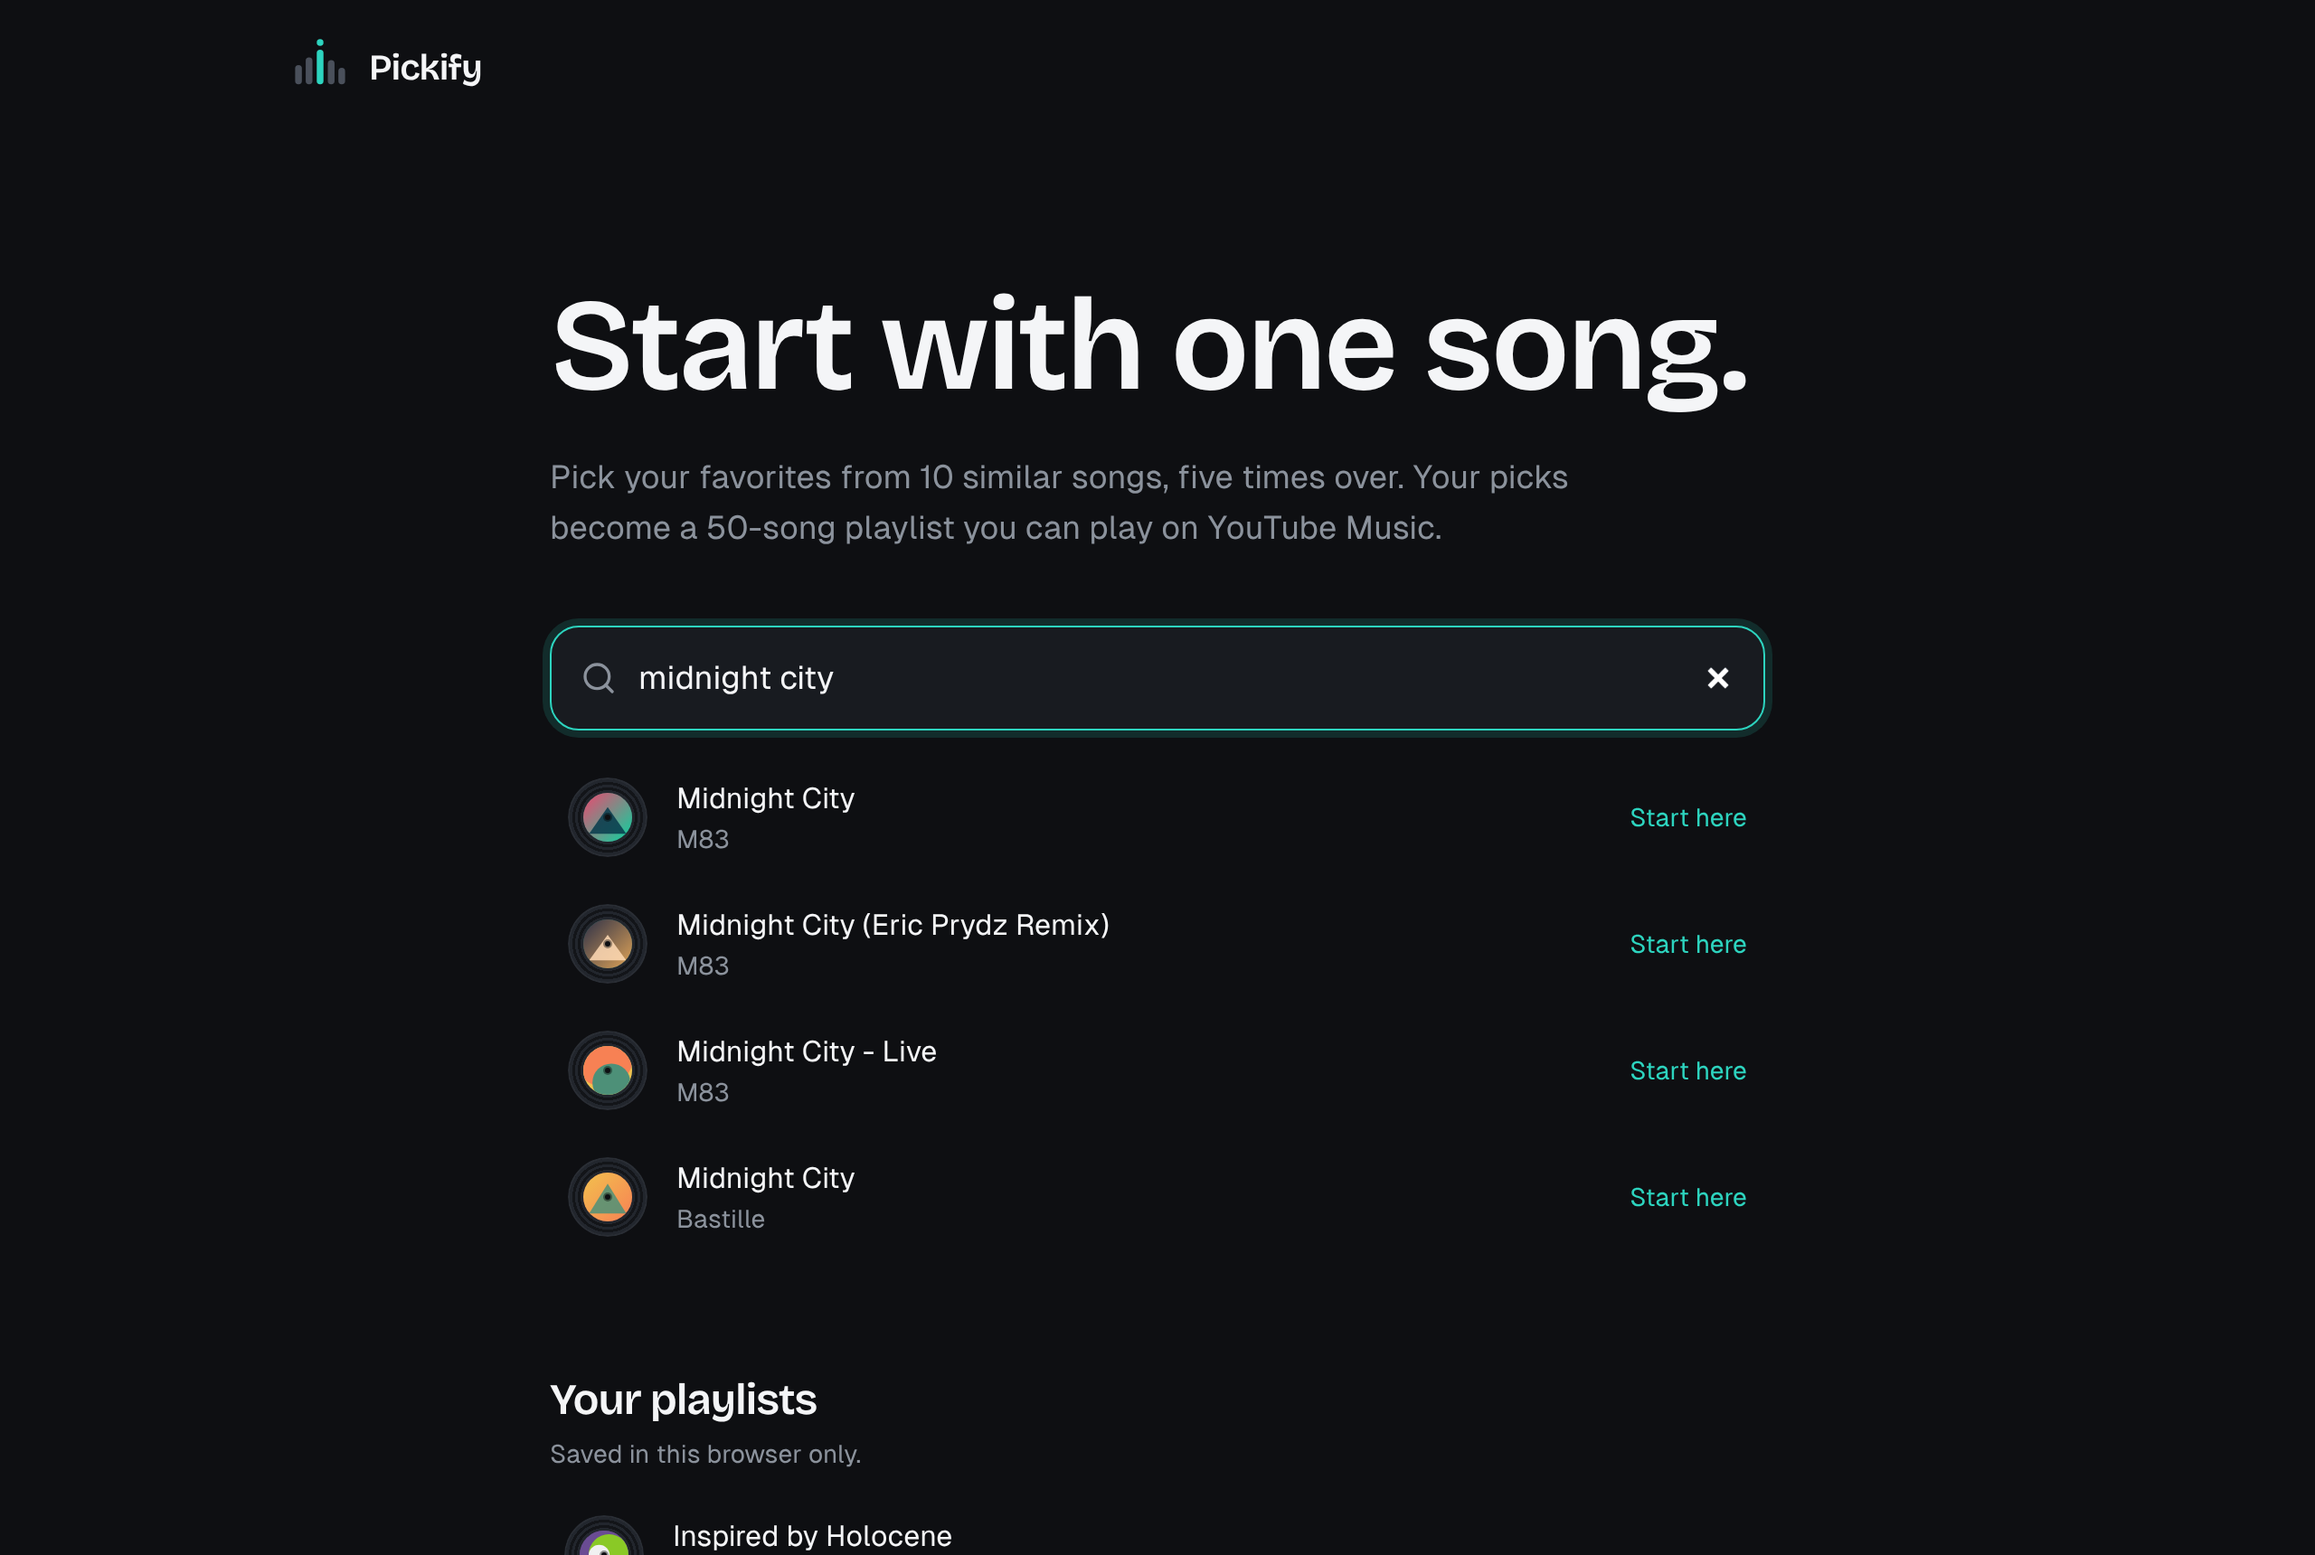
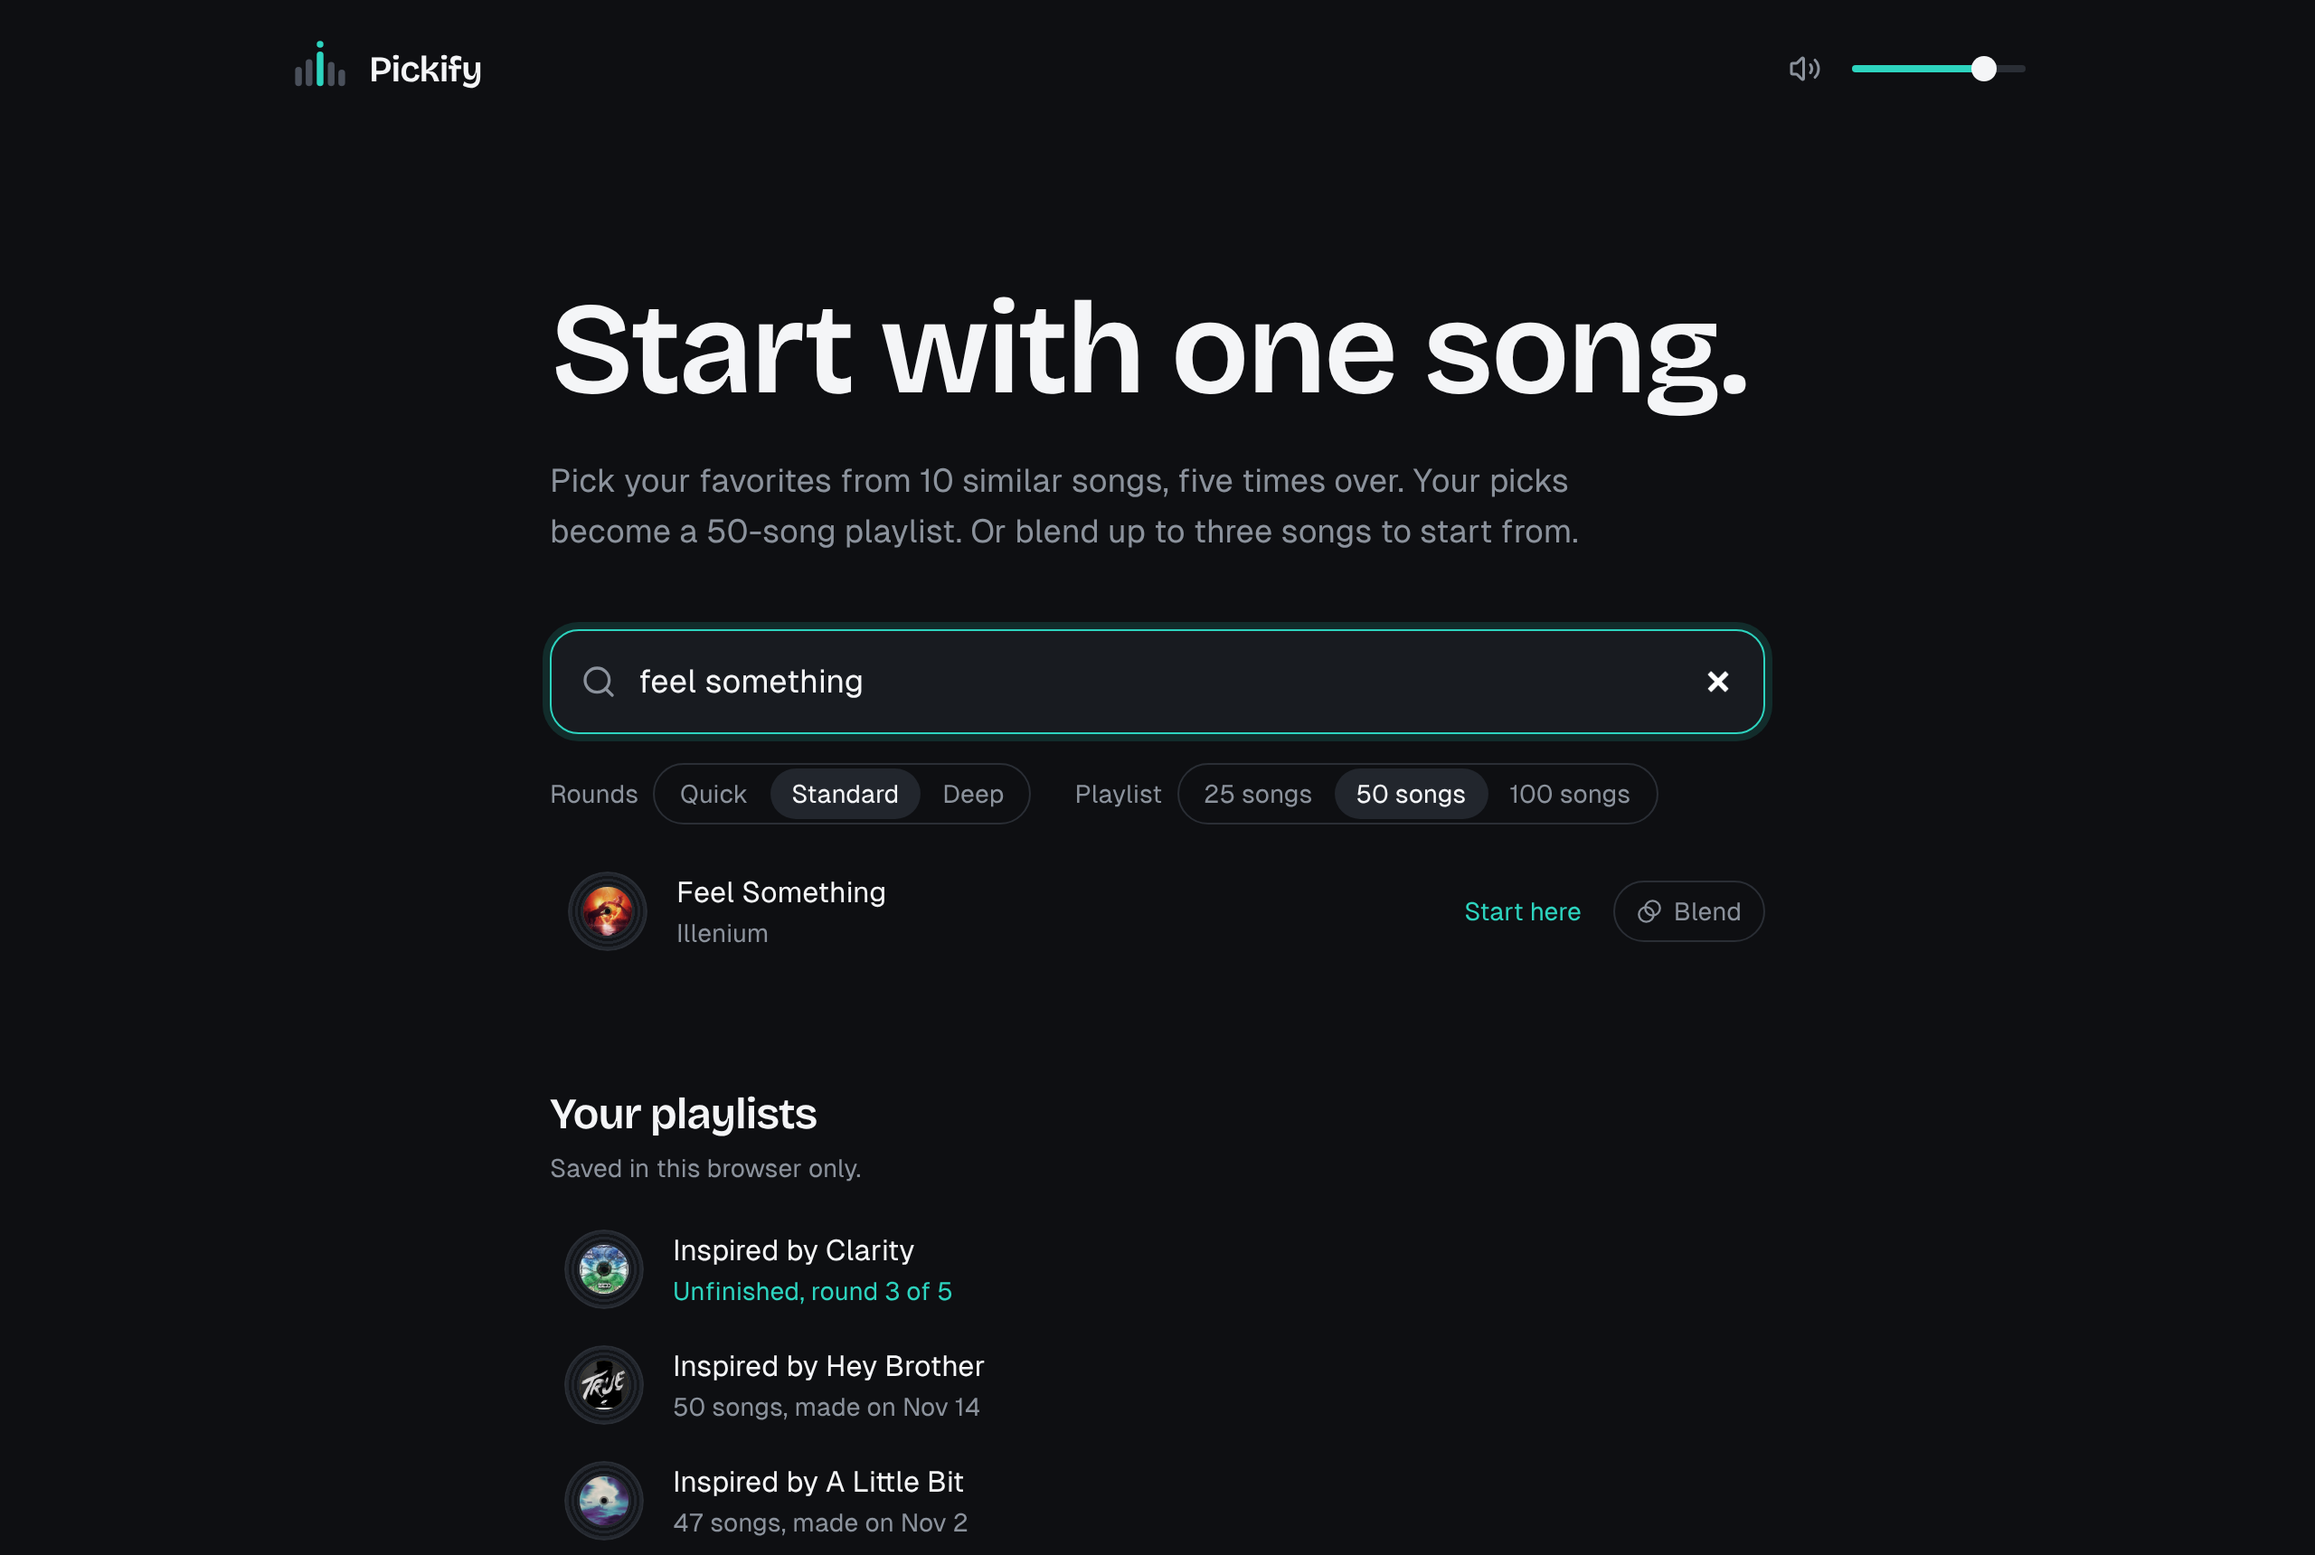
Use real album covers in README screenshots and demo (#25)

diff --git a/README.md b/README.md
@@ -4,7 +4,7 @@ Pick a song you like. Pickify shows you 10 similar songs, you pick as many as yo
 
 **Live at [pickify.ppeternnguyen.com](https://pickify.ppeternnguyen.com)**
 
-![Searching for a seed song, previewing and picking songs over five rounds, and the finished playlist](docs/screenshots/demo.gif)
+![Searching for a seed song, picking Quick rounds and a 25-song playlist, previewing and picking songs over three rounds, and the finished playlist](docs/screenshots/demo.gif)
 
 ## Features
 
@@ -21,11 +21,11 @@ Pick a song you like. Pickify shows you 10 similar songs, you pick as many as yo
 
 | Picking songs | The playlist |
 | --- | --- |
-| ![A round of 10 songs with two picked and one preview playing](docs/screenshots/round.png) | ![A finished 50-song playlist with Play, Shuffle play and Share](docs/screenshots/playlist.png) |
+| ![A round of 10 songs with two picked and one preview playing](docs/screenshots/round.png) | ![A finished playlist with Play, Shuffle, Open in YouTube Music and Share](docs/screenshots/playlist.png) |
 
 | Search | On a phone |
 | --- | --- |
-| ![The home page with search results for Midnight City](docs/screenshots/home.png) | <img src="docs/screenshots/round-mobile.png" alt="A round on a phone" width="300"> |
+| ![The home page with a search for Feel Something and saved playlists](docs/screenshots/home.png) | <img src="docs/screenshots/round-mobile.png" alt="A round on a phone" width="300"> |
 
 ## How it fits together
 
